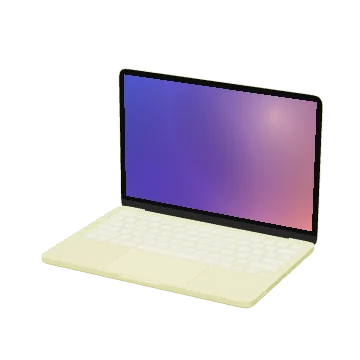
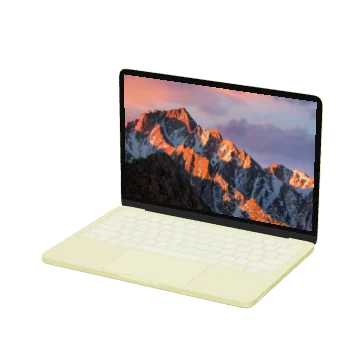
Show a mountain on the device catalog's screens
The thumbnails painted a drawn purple gradient on every screen. They now
show one of the shipped Nature presets, cover-cropped around the lit
peak so a narrow phone keeps it, and all thirteen are re-rendered.

Changed region(s): [[0.3361, 0.1833, 0.8861, 0.6417]]

diff --git a/app/scripts/device-thumbs/thumb.tsx b/app/scripts/device-thumbs/thumb.tsx
@@ -26,28 +26,35 @@ const POSE: Record<string, [number, number]> = {
   watch: [6, -18],
 }
 
-/** A soft wallpaper, the same on every device so the tiles read as one set. */
+/*
+ * The wallpaper: one of the shipped Nature presets, the same on every device
+ * so the tiles read as one set. A real photograph rather than a drawn gradient,
+ * because a screen showing a picture is what makes a device read as switched on.
+ */
+const WALLPAPER = '/preset-bgs/nature/nature-29.webp'
+/** where the lit peak sits in the photo, so a narrow phone crop keeps it */
+const FOCUS = { x: 0.62, y: 0.4 }
+
+const photo = await new Promise<HTMLImageElement>((resolve, reject) => {
+  const img = new Image()
+  img.onload = () => resolve(img)
+  img.onerror = reject
+  img.src = WALLPAPER
+})
+
+/** The photo cover-cropped to the screen's aspect, centred on the peak as far as the edges allow. */
 function wallpaper(aspect: number) {
   const c = document.createElement('canvas')
-  c.height = 512
-  c.width = Math.round(512 * aspect)
+  c.height = 1024
+  c.width = Math.round(1024 * aspect)
   const g = c.getContext('2d')!
-  const base = g.createLinearGradient(0, 0, c.width, c.height)
-  base.addColorStop(0, '#4f5bd5')
-  base.addColorStop(0.55, '#8a5cd6')
-  base.addColorStop(1, '#e58a8a')
-  g.fillStyle = base
-  g.fillRect(0, 0, c.width, c.height)
-  const glow = (x: number, y: number, r: number, col: string) => {
-    const rg = g.createRadialGradient(x, y, 0, x, y, r)
-    rg.addColorStop(0, col)
-    rg.addColorStop(1, 'rgba(0,0,0,0)')
-    g.fillStyle = rg
-    g.fillRect(0, 0, c.width, c.height)
-  }
-  const m = Math.max(c.width, c.height)
-  glow(c.width * 0.8, c.height * 0.15, m * 0.55, 'rgba(255,214,170,0.55)')
-  glow(c.width * 0.15, c.height * 0.85, m * 0.6, 'rgba(60,40,160,0.55)')
+  const k = Math.max(c.width / photo.width, c.height / photo.height)
+  const w = photo.width * k
+  const h = photo.height * k
+  const clamp = (v: number, lo: number) => Math.min(0, Math.max(lo, v))
+  const x = clamp(c.width / 2 - FOCUS.x * w, c.width - w)
+  const y = clamp(c.height / 2 - FOCUS.y * h, c.height - h)
+  g.drawImage(photo, x, y, w, h)
   const t = new THREE.CanvasTexture(c)
   t.colorSpace = THREE.SRGBColorSpace
   return t
